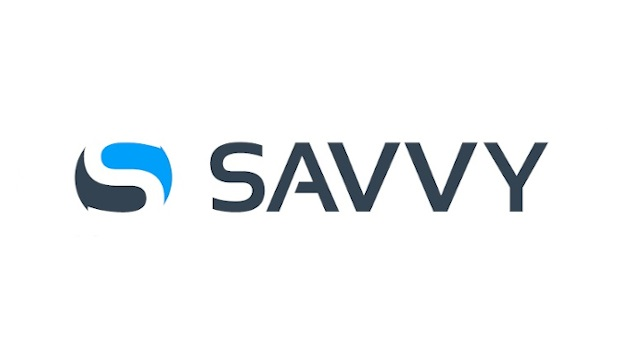
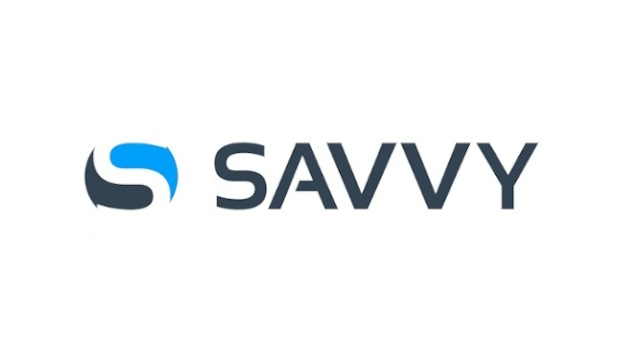
changes
logo resize and updates in education section

Changed region(s): [[0.456, 0.4, 0.8816, 0.6286], [0.1216, 0.4, 0.304, 0.6286], [0.3344, 0.4, 0.5168, 0.6286]]

diff --git a/index.html b/index.html
@@ -408,9 +408,9 @@
                 <div class="work-content">
                   <div class="row">
                     <div class="col-sm-8">
-                      <h2 class="w-title">Técnico Superior en Desarrollo de Aplicaciones Multiplataforma</h2>
+                      <h2 class="w-title">Curso de Especialización en Ciberseguridad en Entornos de las Tecnologías de la Información</h2>
                       <div class="w-more">
-                        <span class="w-ctegory">Centro de Estudios SEIM</span> / <span class="w-date">2020 - 2022</span>
+                        <span class="w-ctegory">IES Xabier Zubiri Manteo BHI</span> / <span class="w-date">2020 - 2022</span>
                       </div>
                     </div>
                     <div class="col-sm-4">
@@ -433,7 +433,7 @@
                     <div class="col-sm-8">
                       <h2 class="w-title">Técnico Superior en Administración de Sistemas Informáticos en Red</h2>
                       <div class="w-more">
-                        <span class="w-ctegory">IES Zubiri Manteo BHI</span> / <span class="w-date">2018 - 2020</span>
+                        <span class="w-ctegory">IES Xabier Zubiri Manteo BHI</span> / <span class="w-date">2018 - 2020</span>
                       </div>
                     </div>
                     <div class="col-sm-4">
@@ -456,7 +456,7 @@
                     <div class="col-sm-8">
                       <h2 class="w-title">Técnico en Sistemas Microinformáticos y Redes</h2>
                       <div class="w-more">
-                        <span class="w-ctegory">IES Zubiri Manteo BHI</span> / <span class="w-date">2016 - 2018</span>
+                        <span class="w-ctegory">IES Xabier Zubiri Manteo BHI</span> / <span class="w-date">2016 - 2018</span>
                       </div>
                     </div>
                     <div class="col-sm-4">
